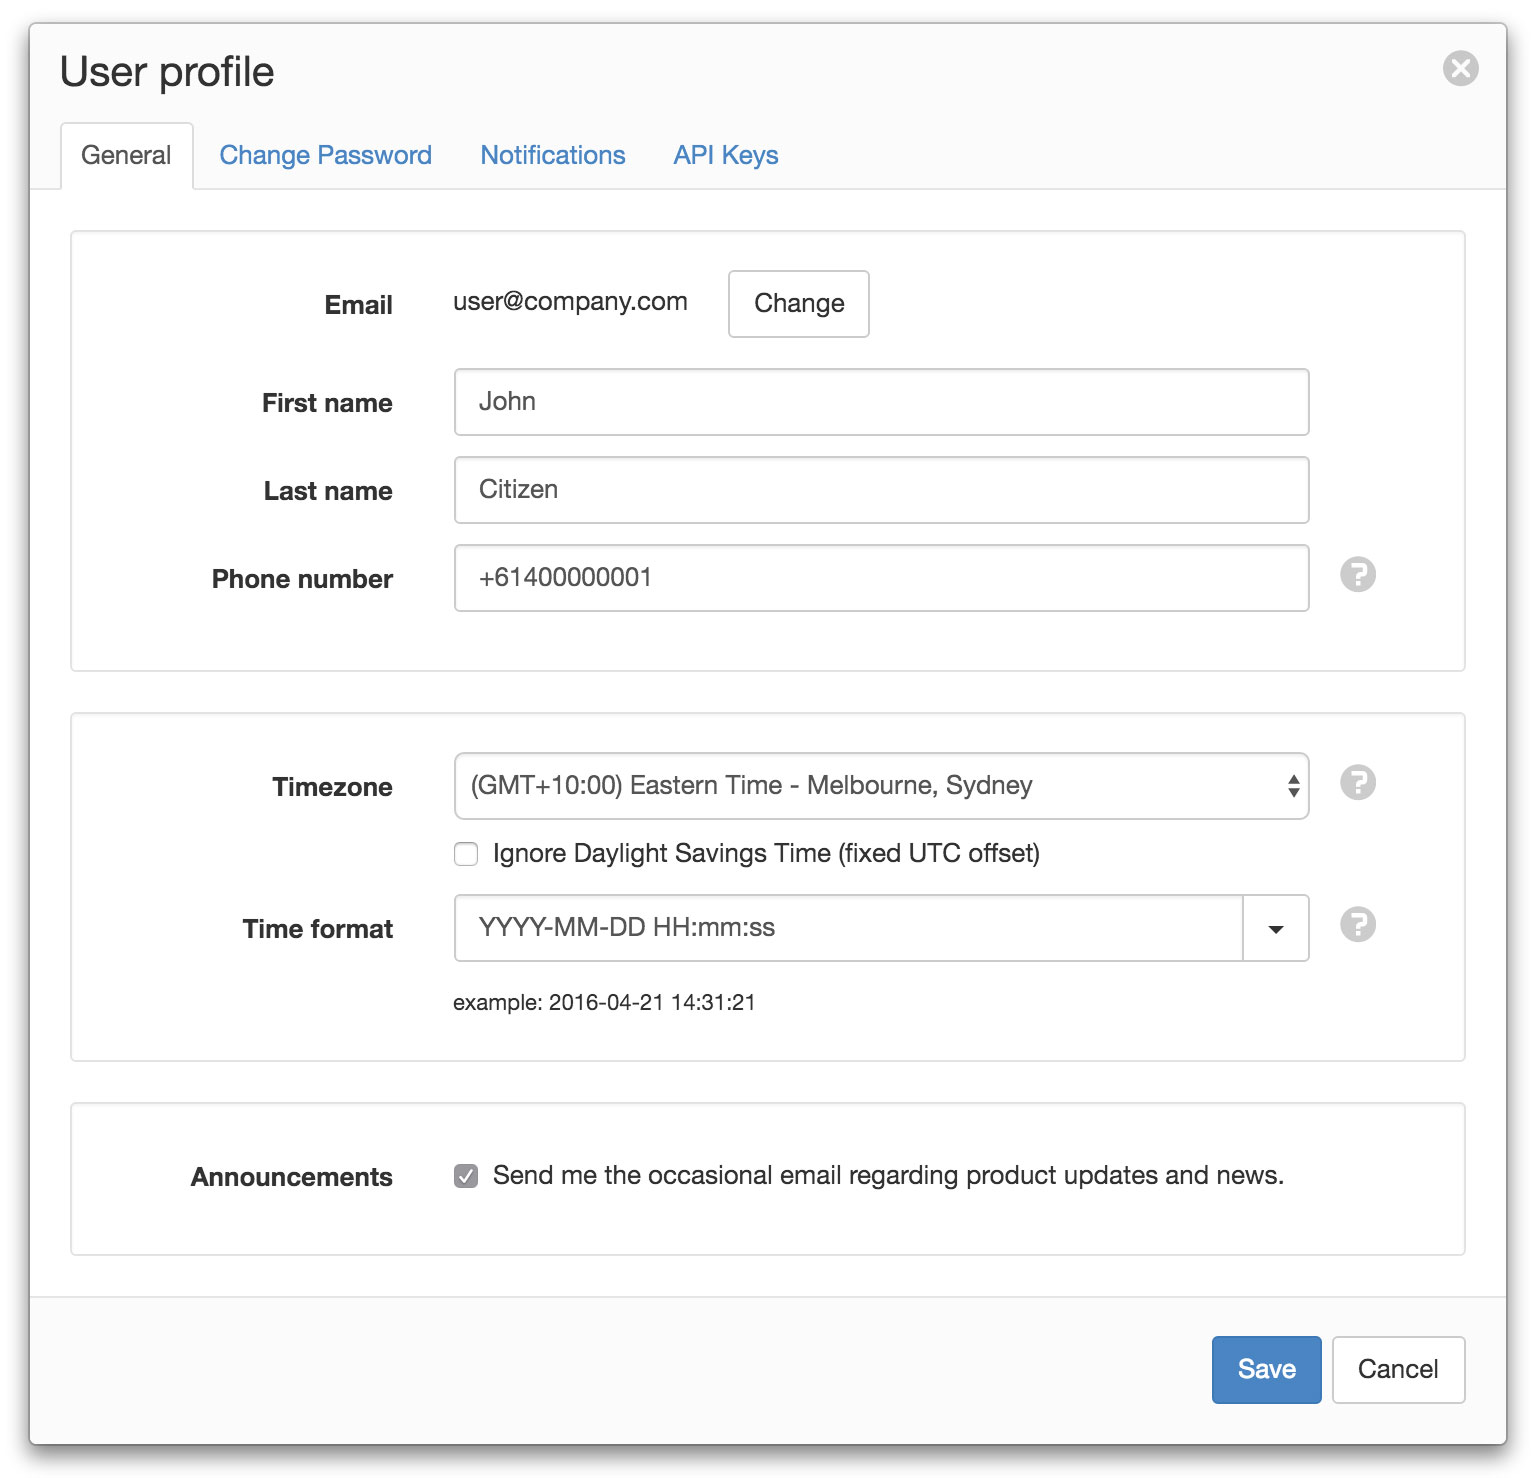
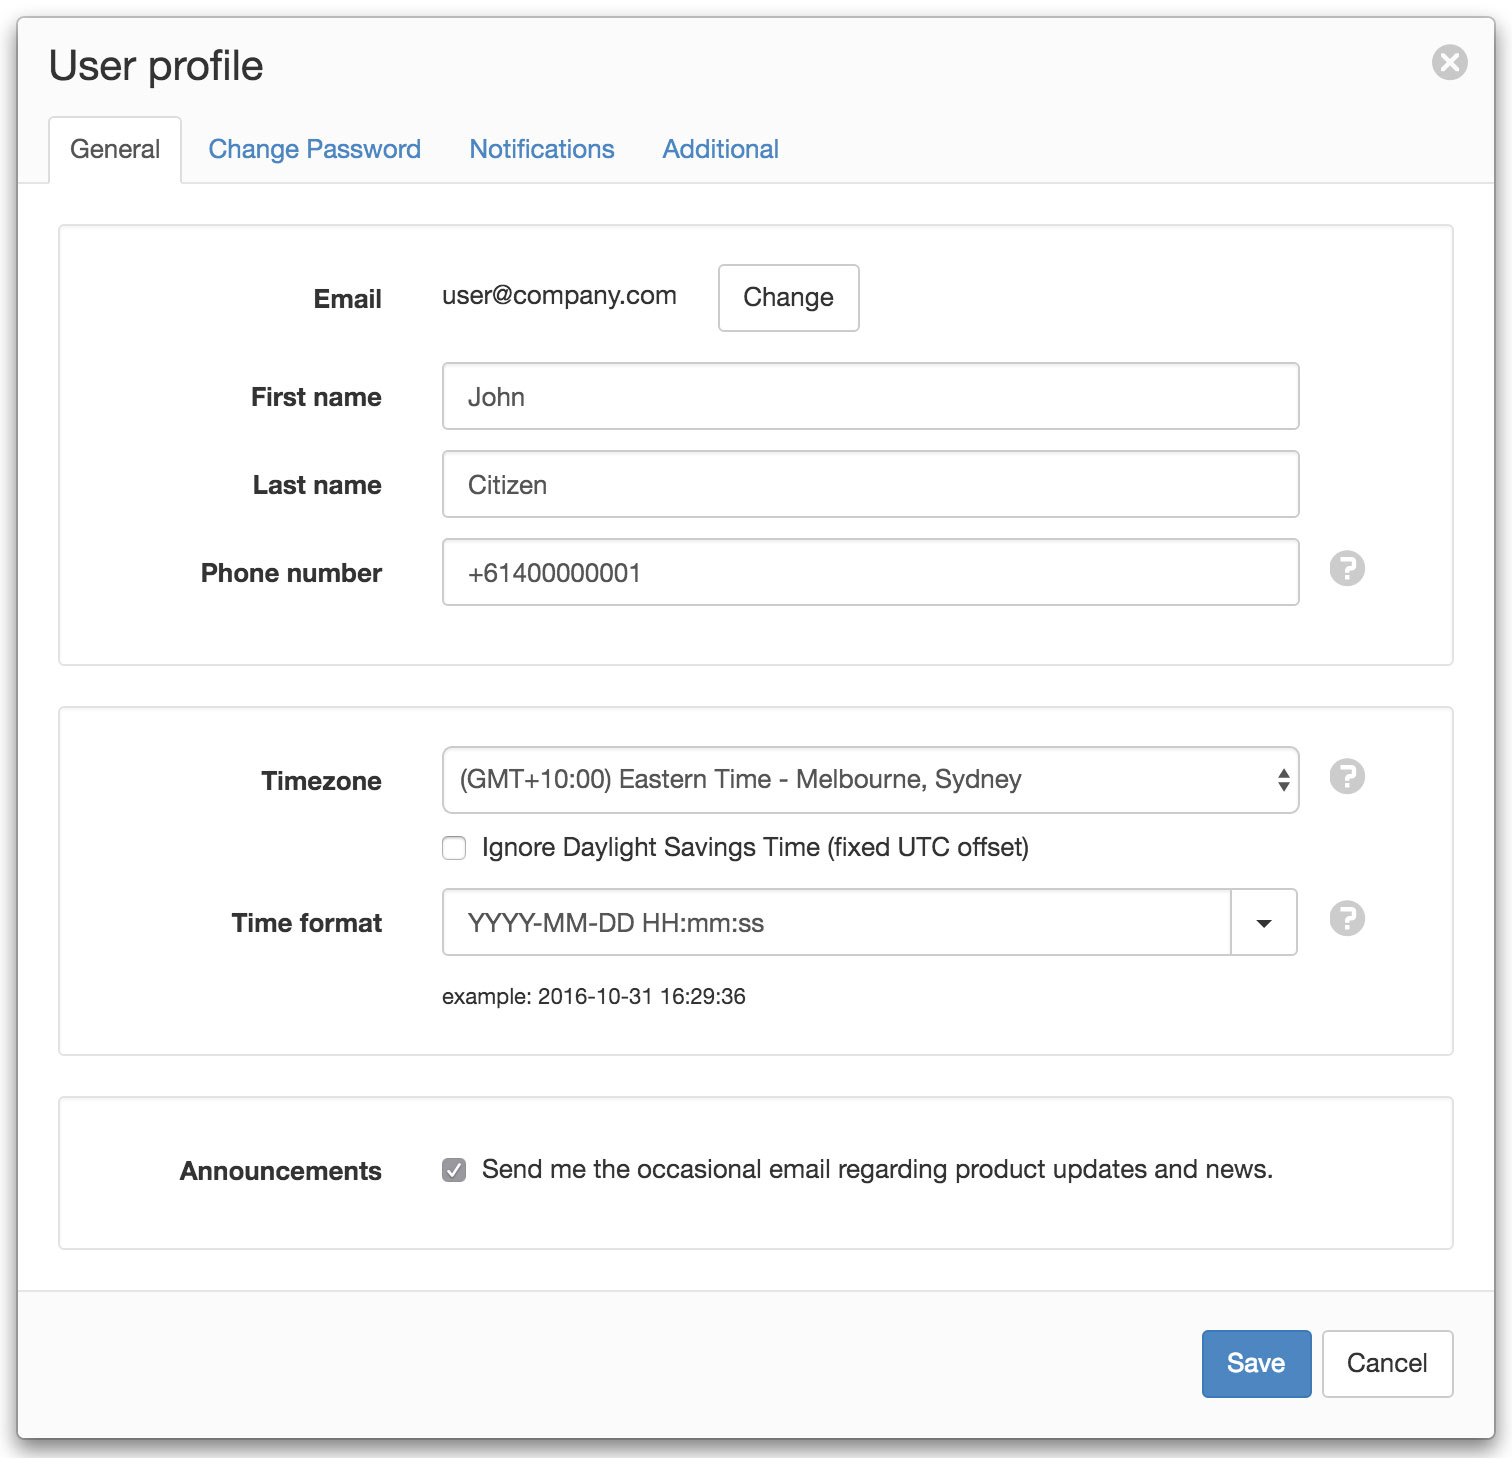
move api keys from 'user' to 'owner'

diff --git a/source/topics/user_preferences/index.rst b/source/topics/user_preferences/index.rst
@@ -88,16 +88,11 @@ Use the SMS/Email checkboxes to set your preferences on what types of notificati
 
     |
     
-.. _user-api-keys:
+.. _user-additional:
 
-API Keys
----------
-API keys are used to authenticate eagle.io :ref:`HTTP API <api>` requests.
-The API keys section allows you to create, delete or modify the permissions for API keys associated with your user account.
-You can have multiple API keys active at once. 
-
-API resource requests are always limited to the users Workspace and Account permissions. 
-Individual API key's can optionally be assigned the *read-only* permission to restrict the actions an API request can perform (GET requests only).
+Additional
+-----------
+The *Display Node Ids in properties dialog* option is useful for retrieving a specific Node Id for use with the HTTP API. The *Node Id* will be shown in the associated Node properties dialog.
 
 .. raw:: latex
 
@@ -105,7 +100,7 @@ Individual API key's can optionally be assigned the *read-only* permission to re
 
 .. only:: not latex
 
-	.. image:: user_profile_apikeys.jpg
+	.. image:: user_profile_additional.jpg
 		:scale: 50 %
 
 	| 
@@ -114,12 +109,7 @@ Individual API key's can optionally be assigned the *read-only* permission to re
 
 	| 
 
-	.. image:: user_profile_apikeys.jpg
-
-The *Display Node Ids in properties dialog* option is useful for retrieving a specific Node Id for use with the HTTP API. The *Node Id* will be shown in the associated Node properties dialog.
-
-.. note::
-	Your API keys carry many privileges, so be sure to keep them secret!
+	.. image:: user_profile_additional.jpg
 
 
 .. raw:: latex

diff --git a/source/topics/account_settings/security/index.rst b/source/topics/account_settings/security/index.rst
@@ -100,6 +100,40 @@ Security
 .. note:: 
 	Security and Sharing changes take effect immediately on save.
 
+.. only:: not latex
+
+    |
+
+.. _management-security-userroles:
+
+API keys
+----------
+
+API keys are used to authenticate eagle.io HTTP API requests. The API keys section allows you to create, delete or modify the permissions for API keys associated with your user account. You can have multiple API keys active at once.
+
+API resource requests are always restricted to Workspaces in the associated account. Individual API key’s can optionally be assigned the *Read only* permission to restrict the actions an API request can perform (GET requests only). 
+You can also set the access level to *Limited workspaces* and check all the Workspaces this API key is allowed to access. 
+
+.. raw:: latex
+
+    \vspace{-10pt}
+    
+.. only:: not latex
+
+	.. image:: account_apikeys.jpg
+		:scale: 50 %
+
+	| 
+
+.. only:: latex
+
+	| 
+
+	.. image:: account_apikeys.jpg
+
+.. note:: 
+	Your API keys carry many privileges, so be sure to keep them secret!
+
 .. raw:: latex
 
     \newpage

diff --git a/source/api/overview/index.rst b/source/api/overview/index.rst
@@ -18,13 +18,13 @@ Example code is available on `GitHub <https://github.com/eagleio/api-examples>`_
 Authentication
 --------------
 
-You authenticate to the eagle.io API by providing one of your :ref:`API keys <user-api-keys>` in the **X-Api-Key** request header::
+You authenticate to the eagle.io API by providing one of your :ref:`API keys <management-security-apikeys>` in the **X-Api-Key** request header::
 
     GET /api/v1/nodes/
     Host: api.eagle.io
     X-Api-Key: xxxxxxxxxxxxxxxxxxxxxxxxxxxxx
 
-You can manage your API keys from your :ref:`user preferences <user-preferences>`. You can have multiple API keys active at one time. Your API keys carry many privileges, so be sure to keep them secret.
+You can manage your API keys from the account settings :ref:`API keys <management-security-apikeys>` security tab. You can have multiple API keys active at one time. Your API keys carry many privileges, so be sure to keep them secret.
 
 All API requests must be made over **HTTPS**. Calls made over plain HTTP will fail. You must authenticate for all requests.
 
